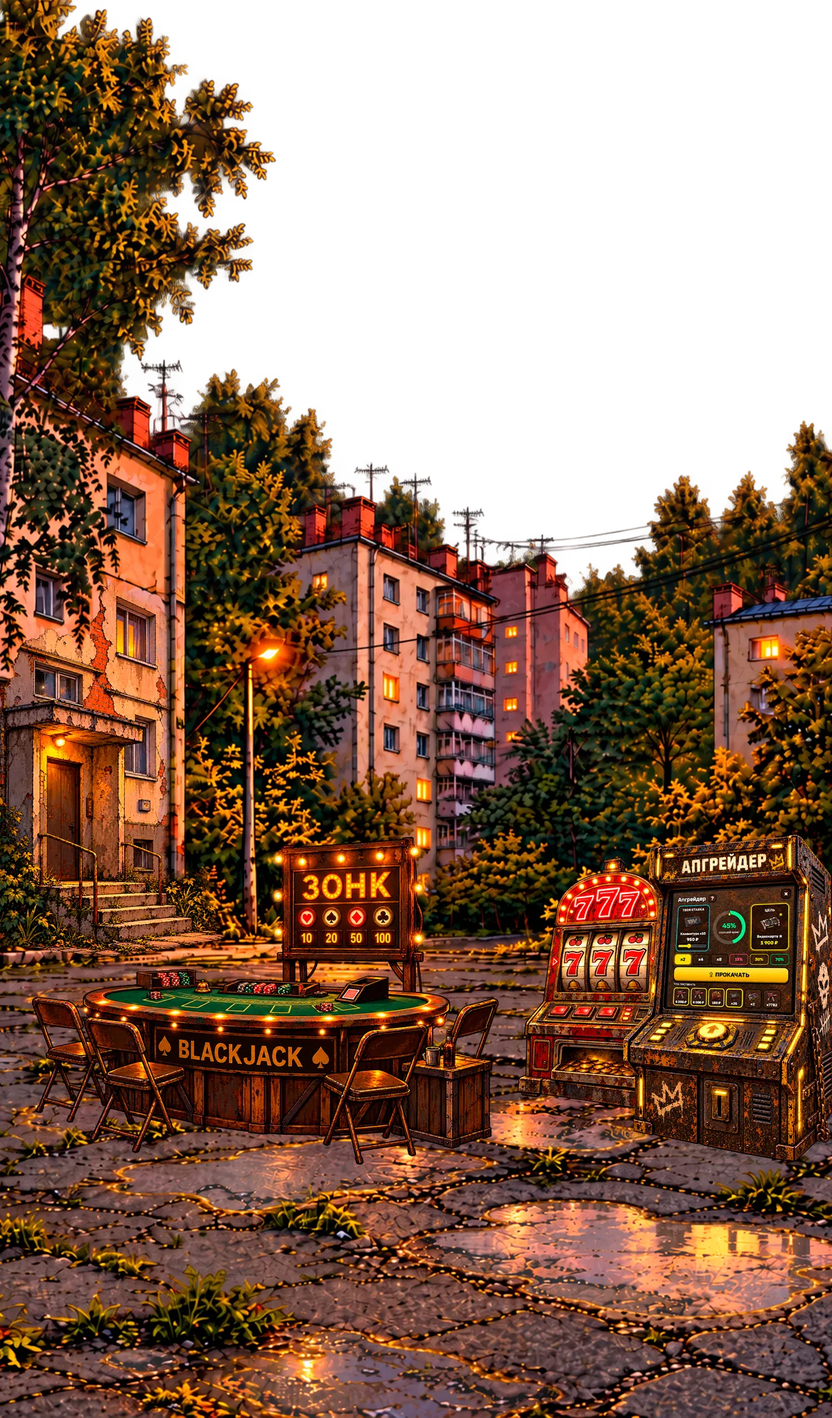
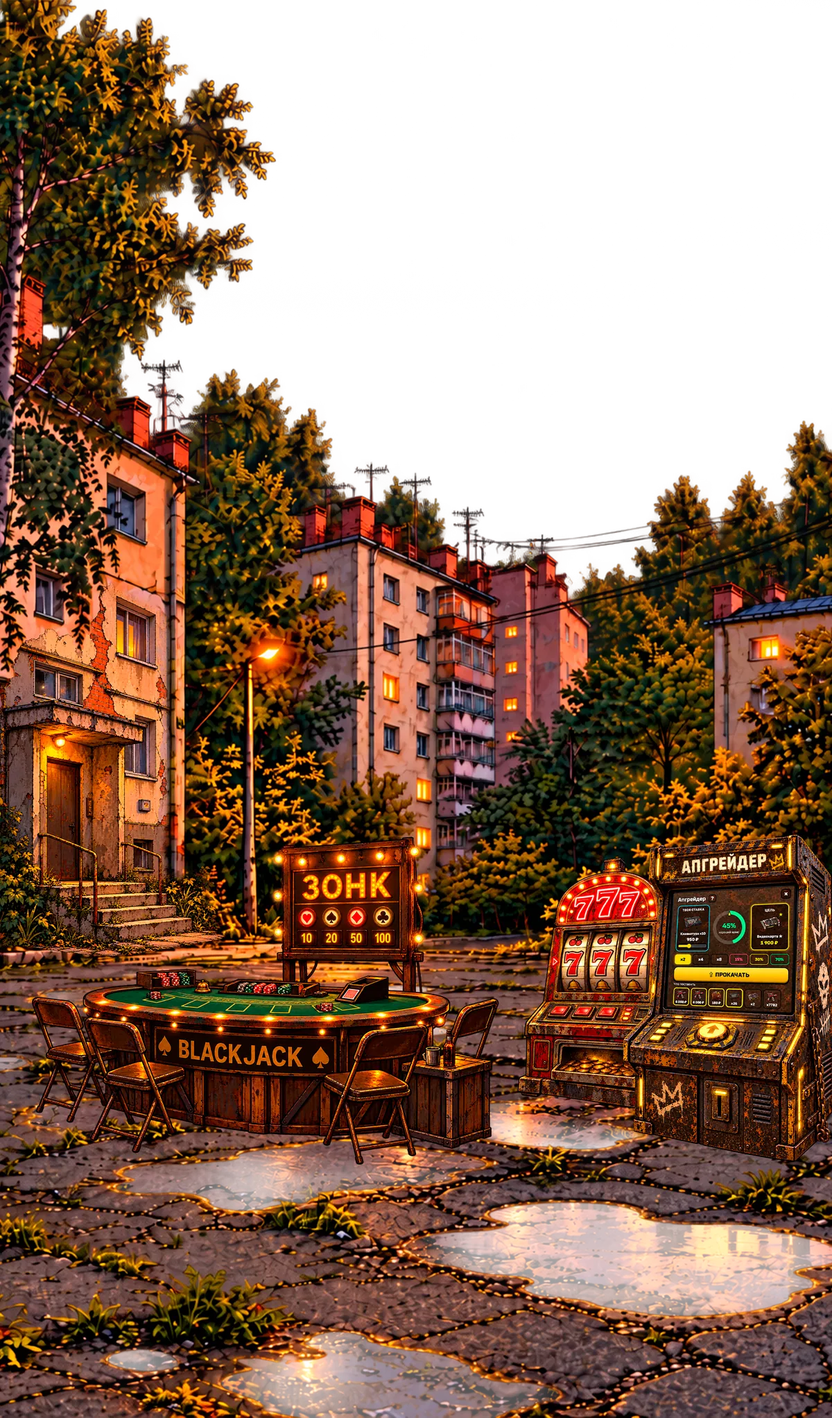
Yard: outlines hug the objects (img max-width squeezed them); puddles see-through enough to show the drifting sky
Claude-Session: https://claude.ai/code/session_01E3jaUxUo8xTQNwyakAWMq3

diff --git a/src/app/screens.css b/src/app/screens.css
@@ -1544,7 +1544,7 @@ body.styling .hud, body.styling .nav { filter: grayscale(1) brightness(0.45); po
 .yard-upgrader { left: 74.5%; top: 58.71%; width: 25.5%; height: 23.35%; z-index: 3; }
 /* everything you can tap in the yard has a thin gold outline (a ring cut from the art's own edges, not the cut lines)
    that flares now and then — each object at its own moment */
-.yard-obj > img.yard-ring { position: absolute; left: calc(var(--rx) * -1); top: calc(var(--ry) * -1); width: calc(100% + 2 * var(--rx)); height: calc(100% + 2 * var(--ry));
+.yard-obj > img.yard-ring { position: absolute; max-width: none; left: calc(var(--rx) * -1); top: calc(var(--ry) * -1); width: calc(100% + 2 * var(--rx)); height: calc(100% + 2 * var(--ry));
   opacity: 0.5; animation: yard-ring 7s ease-in-out infinite; animation-delay: var(--od, 0s); }
 .yard-entrance { --rx: 6.03%; --ry: 3.81%; --od: 0s; }
 .yard-table { --rx: 3.12%; --ry: 4.25%; --od: -5.2s; }
@@ -1566,4 +1566,4 @@ body.styling .hud, body.styling .nav { filter: grayscale(1) brightness(0.45); po
 /* the yard's sky: the drifting sunset behind the see-through sky of the background */
 .court-sky { position: absolute; left: 0; right: 0; top: 0; height: 40.5%; overflow: hidden; background: #3a3150; }
 .court-sky .yard-sky-strip, .yard-reflect .yard-sky-strip { animation-duration: 110s; }
-.yard-reflect { position: absolute; left: 0; right: 0; top: 60%; bottom: 0; overflow: hidden; transform: scaleY(-1); filter: brightness(0.75) saturate(1.1) blur(0.6px); }
+.yard-reflect { position: absolute; left: 0; right: 0; top: 60%; bottom: 0; overflow: hidden; transform: scaleY(-1); filter: brightness(0.85) saturate(1.15) blur(0.5px); }
